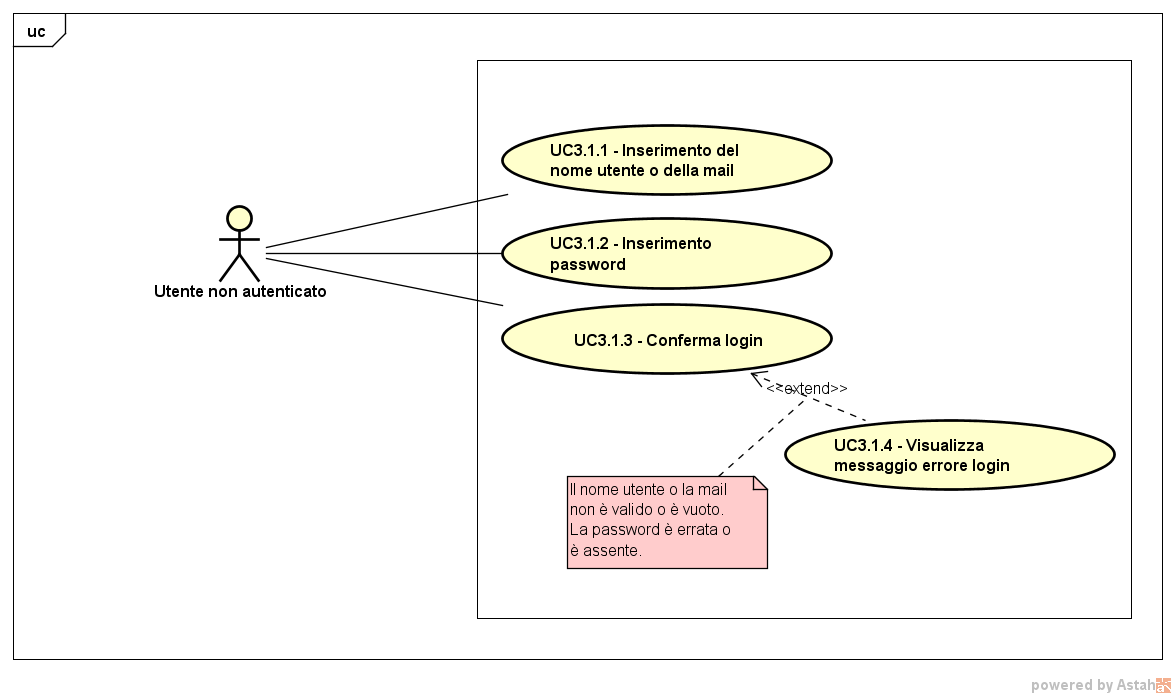
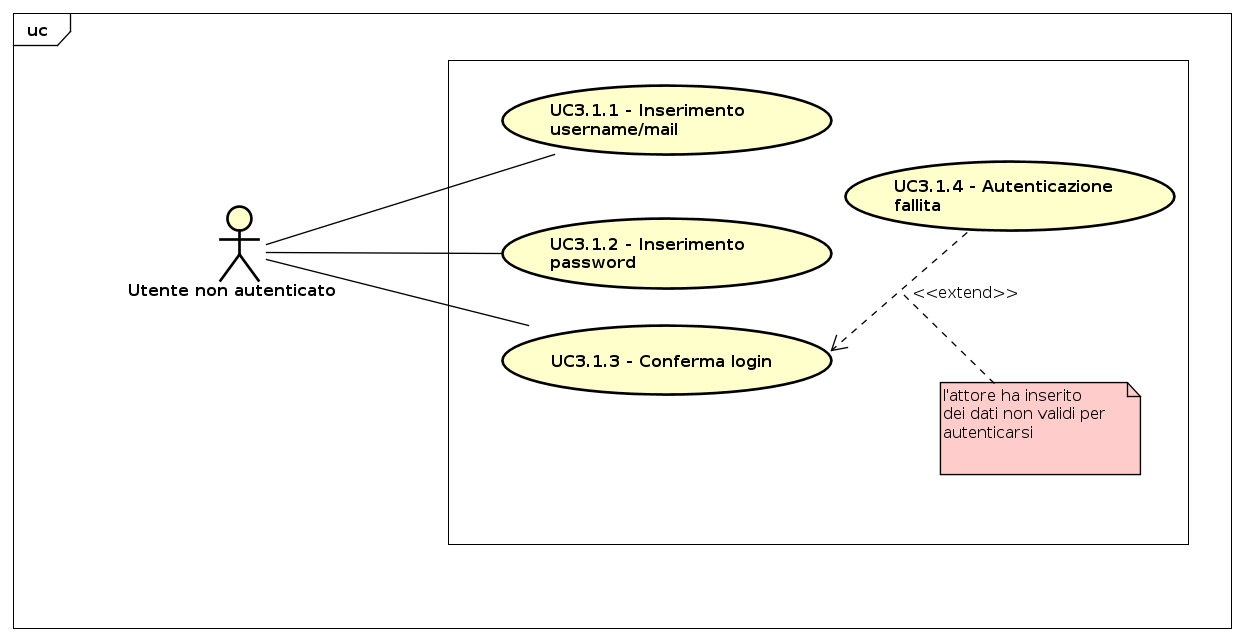
corretto e modificato in seguito a verifica UC3 e UML relativi

diff --git a/RR/AnalisiDeiRequisiti/sezioni/CasiD'uso/CasoD'usoUC3.tex b/RR/AnalisiDeiRequisiti/sezioni/CasiD'uso/CasoD'usoUC3.tex
@@ -8,18 +8,19 @@
 \FloatBarrier
 \begin{itemize}
 	\item \textbf{Attori}: utente non autenticato;
-	\item \textbf{Descrizione}: l'attore si può autenticare con un metodo proposto;
+	\item \textbf{Descrizione}: l'attore si può autenticare tramite uno dei metodi proposti;
 	\item \textbf{Precondizione}: il sistema è avviato e pronto per l'utilizzo e mostra la pagina di login;
-	\item \textbf{Postcondizione}: l'attore è autenticato.
+	\item \textbf{Postcondizione}: l'attore è autenticato;
 	\item \textbf{Scenario principale}: l'attore sceglie uno dei seguenti modi per autenticarsi:
 		\begin{itemize}
-			\item Login con \progetto (UC3.1);
-			\item Login con facebook (UC3.2);
-			\item Login con Twitter (UC3.3);
-			\item Login con Google+ (UC3.4);
-			\item Login con linkedin (UC3.5);
+			\item L'attore può effettuare il login con \progetto (UC3.1);
+			\item L'attore può effettuare il login con Facebook (UC3.2);
+			\item L'attore può effettuare il login con Twitter (UC3.3);
+			\item L'attore può effettuare il login con Google+ (UC3.4);
+			\item L'attore può effettuare il login con Linkedin (UC3.5).
 		\end{itemize}
 \end{itemize}
+
 \subsubsection{Caso d'uso UC3.1: Login da \progetto}
 \label{UC3.1}
 \begin{figure}
@@ -30,80 +31,90 @@
 \FloatBarrier
 \begin{itemize}
 	\item \textbf{Attori}: utente non autenticato;
-	\item \textbf{Descrizione}: l'attore si può autenticare: inserisce nome utente e password con cui è registrato ed effettua il login;
+	\item \textbf{Descrizione}: l'attore si può autenticare inserendo username/mail e password, con cui è registrato;
 	\item \textbf{Precondizione}: il sistema è avviato e pronto per l'utilizzo e mostra la pagina di login;
-	\item \textbf{Flusso principale degli eventi}:
-	\begin{enumerate}
-		\item L'attore inserisce il nome utente oppure la mail utilizzata al momento della registrazione (UC3.1.1);
-		\item L'attore inserisce la password (UC3.1.2);
-		\item L'attore conferma il login (UC3.1.3).
-	\end{enumerate}
-	\item \textbf{Scenario alternativo:}
+	\item \textbf{Postcondizione}: il sistema ha autenticato l'attore e quindi mostra all'attore autenticato la sua area riservata.
+	\item \textbf{Scenario Principale}:
 	\begin{itemize}
-		\item L'attore inserisce un nome utente inesistente;
-		\item L'attore inserisce una mail non registrata;
-		\item L'attore non inserisce ne un nome utente ne una mail;
-		\item L'attore inserisce una password errata;
-		\item L'attore non inserisce una password.
+		\item L'attore può inserire l'username oppure la mail utilizzata al momento della registrazione (UC3.1.1);
+		\item L'attore può inserire la password (UC3.1.2);
+		\item L'attore può confermare il login (UC3.1.3).
 	\end{itemize}
-	In tal caso il sistema ritorna allo stato precedente l'inserimento dei dati e viene visualizzato un messaggio d' errore.
-	\item \textbf{Estensione:} l'attore visualizza un messaggio d'errore di autenticazione (UC3.1.4).
-	\item \textbf{Postcondizione:} il sistema ha autenticato l'attore e quindi mostra all'attore autenticato la sua area riservata.
+	\item \textbf{Estensioni}: autenticazione fallita (UC3.1.4).
 \end{itemize}
 
-\subsubsection{Caso d'uso UC3.1.1: inserimento del nome utente o della mail}
+\subsubsection{Caso d'uso UC3.1.1: Inserimento username/mail}
 \begin{itemize}
 	\item \textbf{Attori}: utente non autenticato;
-	\item \textbf{Descrizione}: l'attore inserisce il proprio nome utente creato oppure la mail utilizzata al momento della registrazione (UC2);
+	\item \textbf{Descrizione}: l'attore può inserire l'username o la mail associata al proprio account;
 	\item \textbf{Precondizione}: il sistema presente all'attore lo spazio destinato a questa operazione;
-	\item \textbf{Postcondizione}: il nome utente è stato inserito.
+	\item \textbf{Postcondizione}: l'attore ha inserito username/mail;
+	\item \textbf{Scenario Principale}: l'attore inserisce l'username o la mail associata al proprio account. 
 \end{itemize}
-\subsubsection{Caso d'uso UC3.1.2: inserimento della password}
+
+\subsubsection{Caso d'uso UC3.1.2: Inserimento password}
 \begin{itemize}
 	\item \textbf{Attori}: utente non autenticato;
-	\item \textbf{Descrizione}: l'attore inserisce la propria password associata al proprio nome utente creata al momento della registrazione (UC2);
+	\item \textbf{Descrizione}: l'attore può inserire la password associata al proprio account;
 	\item \textbf{Precondizione}: il sistema presenta all'attore lo spazio destinato a questa operazione;
-	\item \textbf{Postcondizione}: la password associata al nome utente è stata inserita.
+	\item \textbf{Postcondizione}: l'attore inserisce la password;
+	\item \textbf{Scenario Principale}: l'attore inserisce la password associata al proprio account.
 \end{itemize}
-\subsubsection{Caso d'uso UC3.1.3: conferma login}
+
+\subsubsection{Caso d'uso UC3.1.3: Conferma login}
 \begin{itemize}
 	\item \textbf{Attori}: utente non autenticato;
-	\item \textbf{Descrizione}: l'attore conferma i dati inseriti per tentare una login;
-	\item \textbf{Precondizione}: il nome utente o la mail e la password devono essere stati inseriti;
-	\item \textbf{Postcondizione}: l'attore è autenticato.
+	\item \textbf{Descrizione}: l'attore può confermare i dati inseriti per effettuare il login;
+	\item \textbf{Precondizione}: l'attore ha inserito l'username/mail e la password;
+	\item \textbf{Postcondizione}: l'attore è autenticato;
+	\item \textbf{Scenario Principale}: l'attore conferma i dati inseriti per effettuare la login con il proprio account.
 \end{itemize}
-\subsubsection{Caso d'uso UC3.1.4: visualizza errore di autenticazione}
+
+\subsubsection{Caso d'uso UC3.1.4: Autenticazione fallita}
 \begin{itemize}
 	\item \textbf{Attori}: utente non autenticato;
-	\item \textbf{Descrizione}: l'attore visualizza un errore per fallimento del tentativo di login;
+	\item \textbf{Descrizione}: l'attore ha inserito dei dati non validi per autenticarsi, in particolare:
+		\begin{itemize}
+		\item L'attore inserisce un username inesistente;
+		\item L'attore inserisce una mail non registrata;
+		\item L'attore inserisce una password che non corrisponde a quella associata all'username/mail inserita;
+		\item L'attore non inserisce una password;
+		\item L'attore non inserisce né un username/mail né una password.
+		\end{itemize}
 	\item \textbf{Precondizione}: l'attore ha confermato il login;
-	\item \textbf{Postcondizione}: l'attore visualizza il messaggio d'errore e può procedere con un nuovo inserimento del nome utente o della mail (UC3.1) o della password (UC3.2).
+	\item \textbf{Postcondizione}: il sistema avvisa l'attore dell'errore verificatosi tramite un opportuno messaggio;
+	\item \textbf{Scenario Principale}: l'attore visualizza un messaggio relativo ai dati errati che erano stati precedentemente inseriti.	
 \end{itemize}
-\subsubsection{Caso d'uso UC3.2: Login con facebook}
+
+\subsubsection{Caso d'uso UC3.2: Login con Facebook}
 \begin{itemize}
 	\item \textbf{Attori}: utente non autenticato;
-	\item \textbf{Descrizione}: l'attore può autenticarsi utilizzando il social network facebook in modo da fare una login molto rapida;
-	\item \textbf{Precondizione}: l'attore visualizza la pagina di login e sceglie la login con facebook;
-	\item \textbf{Postcondizione}: l'attore è autenticato.
+	\item \textbf{Descrizione}: l'attore può autenticarsi utilizzando Facebook;
+	\item \textbf{Precondizione}: l'attore visualizza la pagina di login e sceglie la login con Facebook;
+	\item \textbf{Postcondizione}: l'attore è autenticato;
+	\item \textbf{Scenario Principale}: l'attore effettua il login tramite Facebook.
 \end{itemize}
-\subsubsection{Caso d'uso UC3.3: Login con twitter}
+\subsubsection{Caso d'uso UC3.3: Login con Twitter}
 \begin{itemize}
 	\item \textbf{Attori}: utente non autenticato;
-	\item \textbf{Scopo e descrizione}: l'attore può autenticarsi utilizzando il social network twitter in modo da fare una login molto rapida;
-	\item \textbf{Precondizione}: l'attore visualizza la pagina di login e sceglie la login con twitter;
-	\item \textbf{Postcondizione}: l'attore è autenticato.
+	\item \textbf{Scopo e descrizione}: l'attore può autenticarsi utilizzando Twitter;
+	\item \textbf{Precondizione}: l'attore visualizza la pagina di login e sceglie la login con Twitter;
+	\item \textbf{Postcondizione}: l'attore è autenticato;
+	\item \textbf{Scenario Principale}: l'attore effettua il login tramite Twitter.
 \end{itemize}
-\subsubsection{Caso d'uso UC3.4: Login con google+}
+\subsubsection{Caso d'uso UC3.4: Login con Google+}
 \begin{itemize}
 	\item \textbf{Attori}: utente non autenticato;
-	\item \textbf{Descrizione}: l'attore può autenticarsi utilizzando il social network google+ in modo da fare una login molto rapida;
-	\item \textbf{Precondizione}: l'attore visualizza la pagina di login e sceglie la login con google+;
-	\item \textbf{Postcondizione}: l'attore è autenticato.
+	\item \textbf{Descrizione}: l'attore può autenticarsi utilizzando Google+;
+	\item \textbf{Precondizione}: l'attore visualizza la pagina di login e sceglie la login con Google+;
+	\item \textbf{Postcondizione}: l'attore è autenticato;
+	\item \textbf{Scenario Principale}: l'attore effettua il login tramite Google+.
 \end{itemize}
-\subsubsection{Caso d'uso UC3.5: Login con linkedin}
+\subsubsection{Caso d'uso UC3.5: Login con Linkedin}
 \begin{itemize}
 	\item \textbf{Attori}: utente non autenticato;
-	\item \textbf{Descrizione}: l'attore può autenticarsi utilizzando il social network linkedin in modo da fare una login molto rapida;
-	\item \textbf{Precondizione}: l'attore visualizza la pagina di login e sceglie la login con linkedin;
-	\item \textbf{Postcondizione}: l'attore è autenticato.
+	\item \textbf{Descrizione}: l'attore può autenticarsi utilizzando Linkedin;
+	\item \textbf{Precondizione}: l'attore visualizza la pagina di login e sceglie la login con Linkedin;
+	\item \textbf{Postcondizione}: l'attore è autenticato;
+	\item \textbf{Scenario Principale}: l'attore effettua il login tramite Linkedin.
 \end{itemize}
